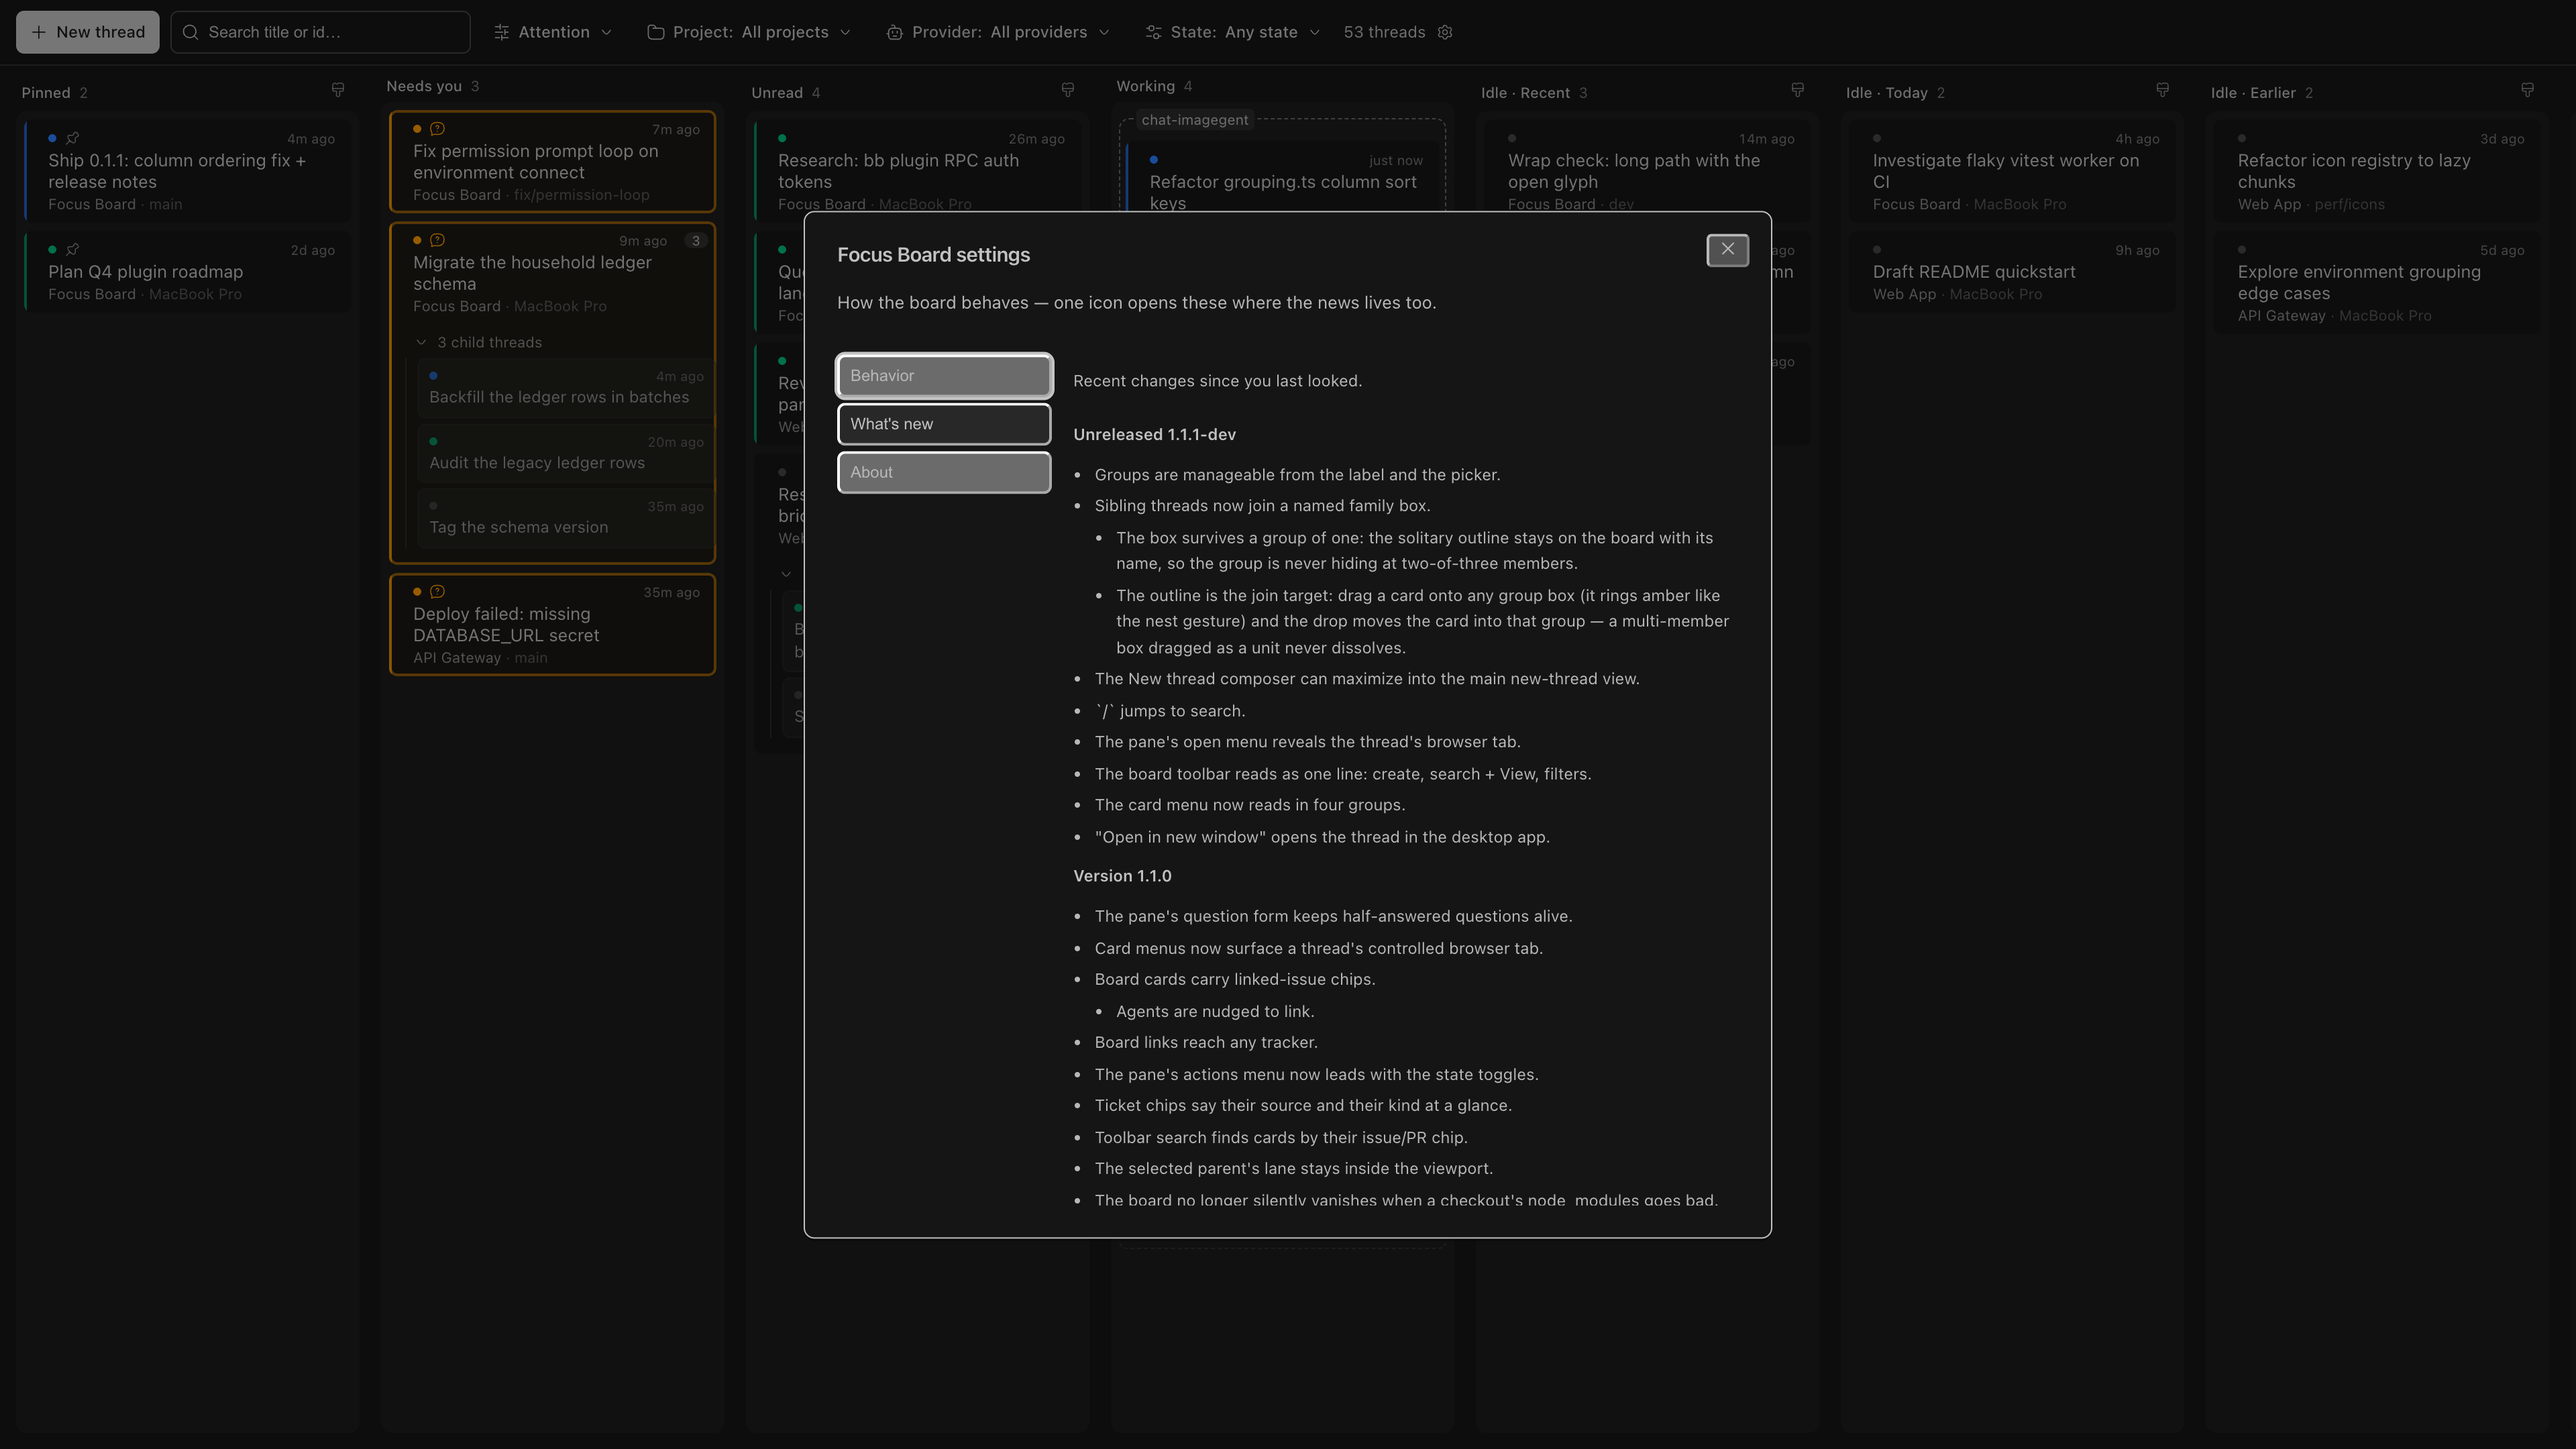
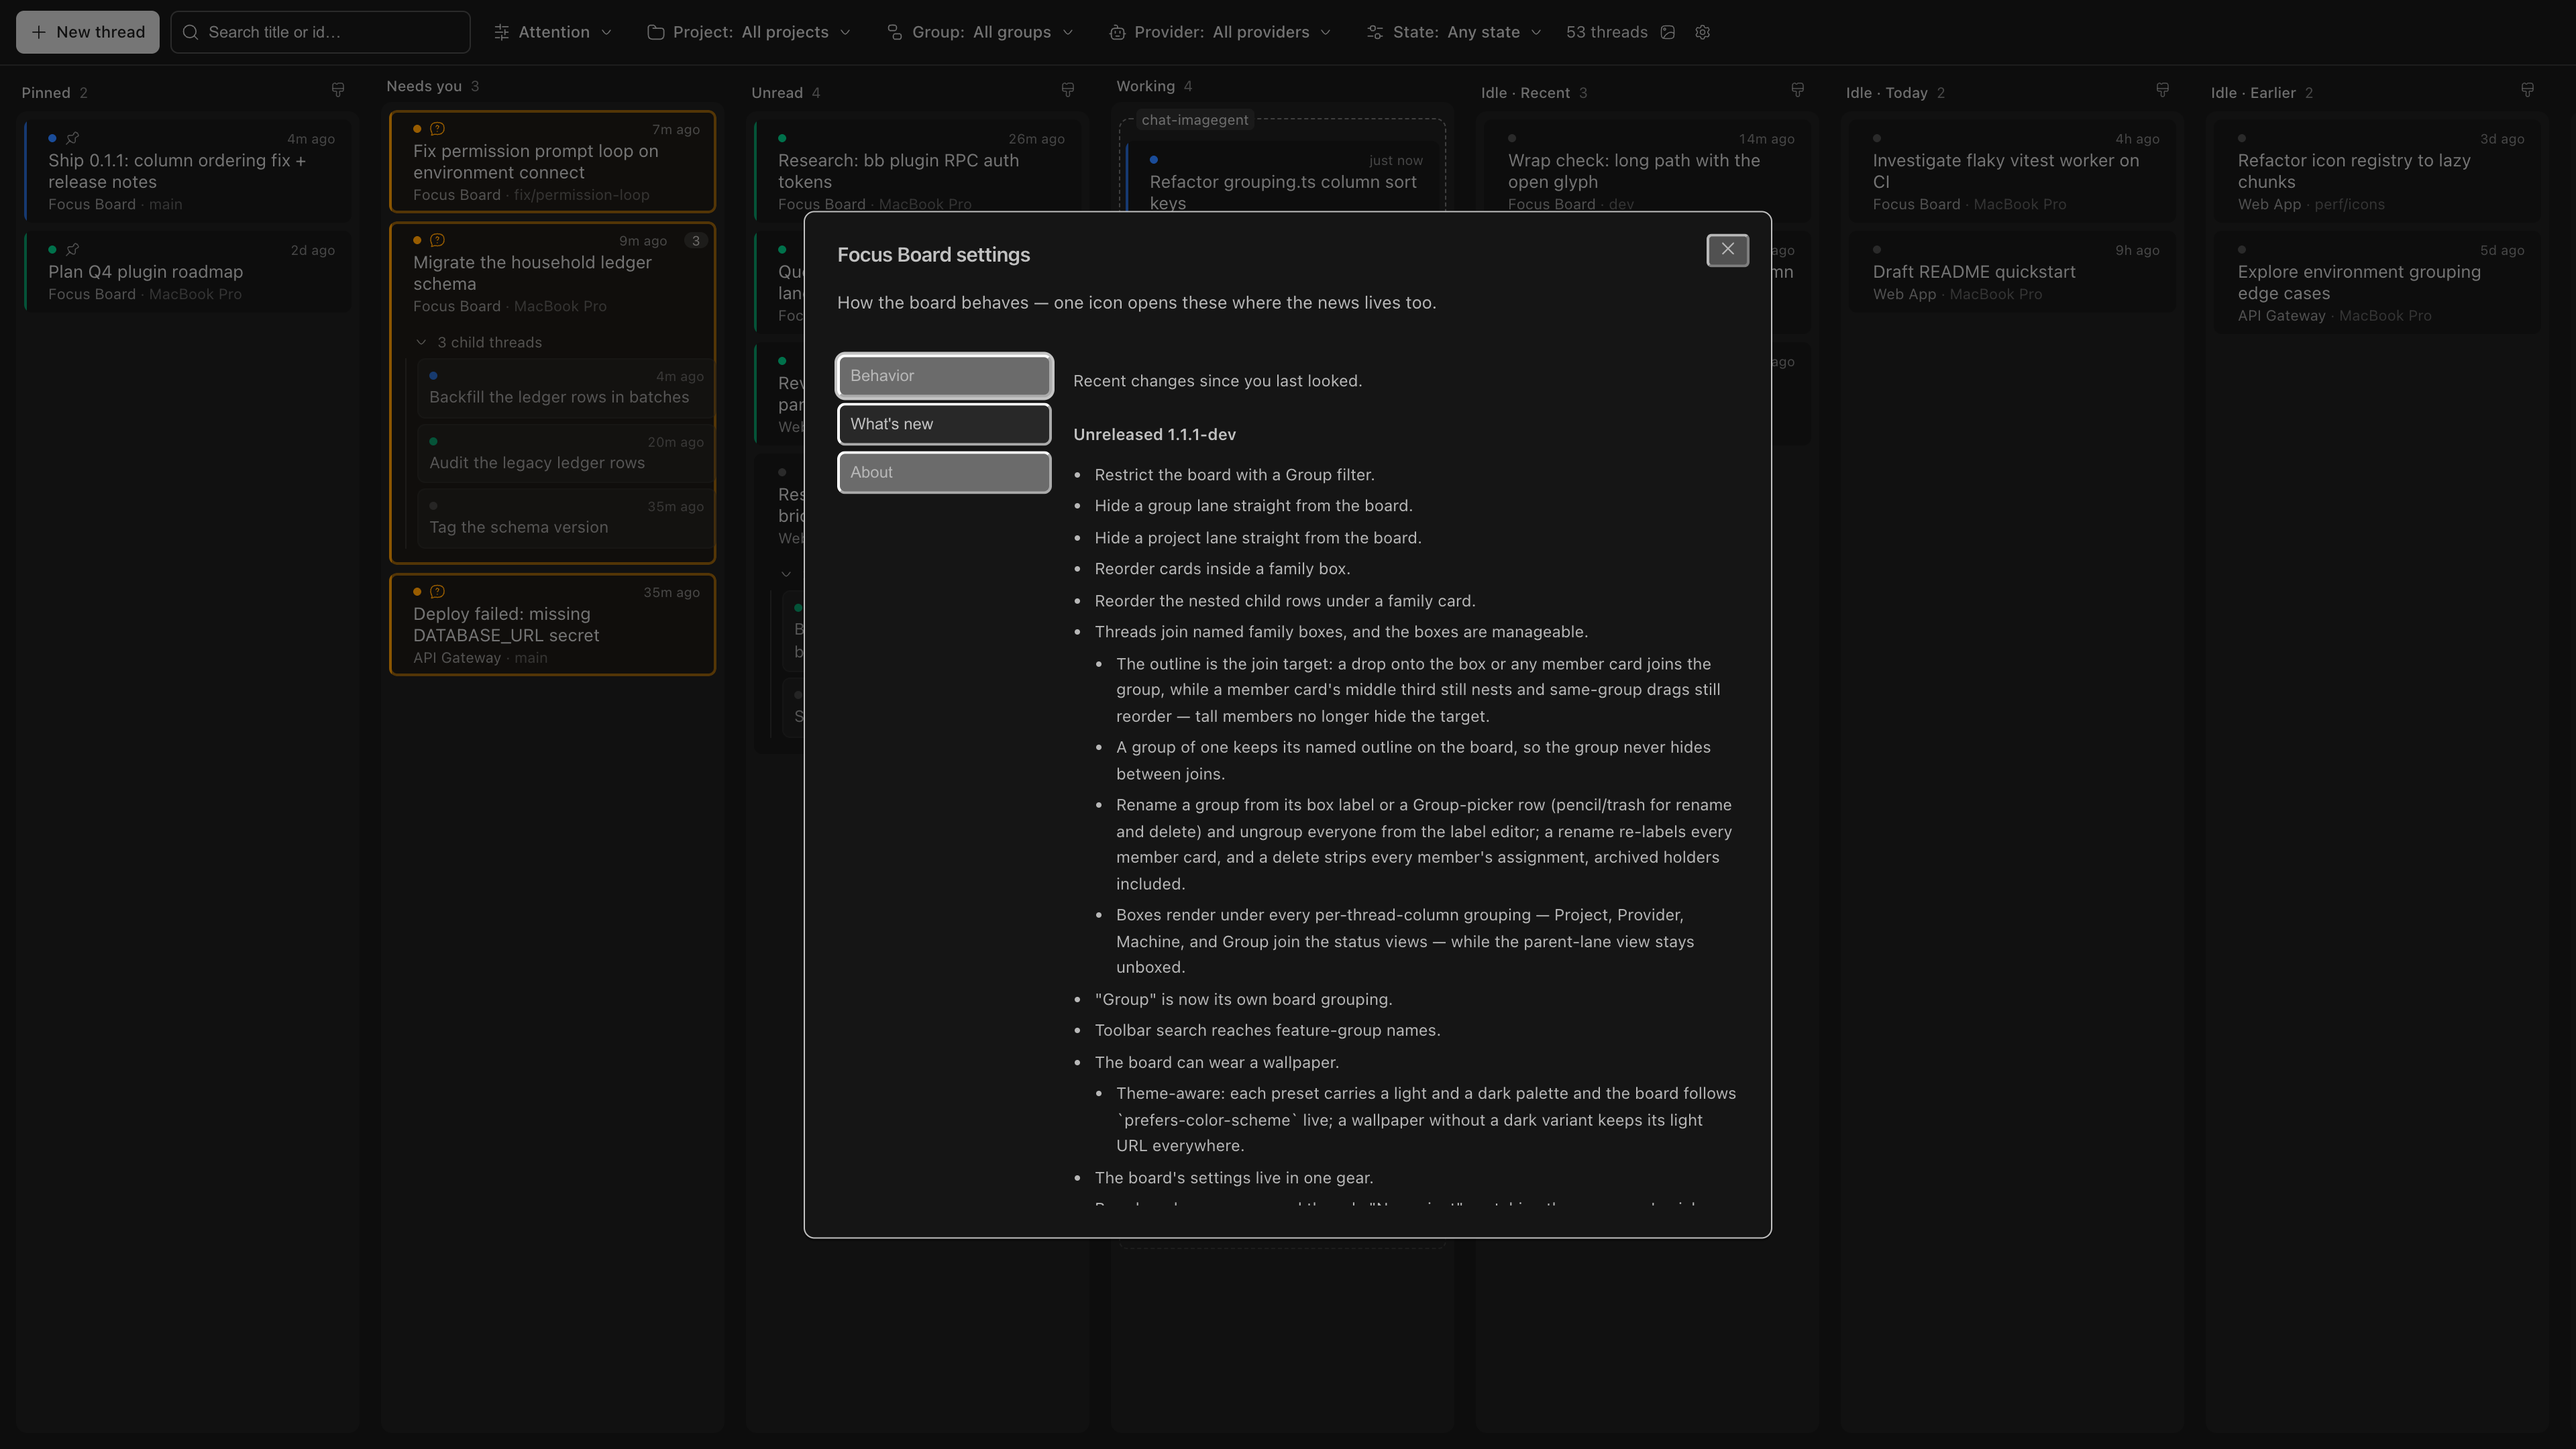
Rebase on origin/dev: keep the settings modal distinct from the wallpaper landing
Resolve the toolbar/test conflicts with dev's side (wallpaper picker and
flex-centering rows intact) plus the settings-modal pieces; deduplicate
the pluginId binding and the harness's experimental_usePluginId export
both corners adding; regenerate the unreleased-changelog module and take
dev's restructured [Unreleased] group with the settings bullet appended
under Added. Full suite (1608 tests), typecheck, build, and security
gates pass.

diff --git a/scripts/screenshot/mock-sdk.tsx b/scripts/screenshot/mock-sdk.tsx
@@ -543,15 +543,6 @@ export function useSettings(): { values: Record<string, unknown> | null } {
   return { values: null };
 }
 
-/**
- * The mock plugin id (0.6.x): the settings modal's Behavior tab writes the
- * plugin's own settings through `sdk.plugins.updateSettings({ pluginId })`,
- * which the routing annotations below already scope to MOCK_PLUGIN_ID.
- */
-export function experimental_usePluginId(): string {
-  return MOCK_PLUGIN_ID;
-}
-
 interface MockMessage {
   role: "user" | "agent";
   text: string;

diff --git a/app.tsx b/app.tsx
@@ -247,7 +247,6 @@ function BoardPage({ subPath }: { subPath: string }) {
   const pluginId = experimental_usePluginId();
   const actions = experimental_useSidebarThreadActions();
   const { providers } = experimental_useProviders();
-  const pluginId = experimental_usePluginId();
   const navigate = useBbNavigate();
   const rpc = useRpc<typeof rpcContract>();
   const sdk = useSdk();

diff --git a/docs/uat/whats-new.md b/docs/uat/whats-new.md
@@ -1,6 +1,6 @@
 # UAT report
 
-_Generated 2026-10-10T20:49:45.341Z by `npm run uat`._
+_Generated 2026-10-10T20:56:38.672Z by `npm run uat`._
 
 ## whats-new
 
